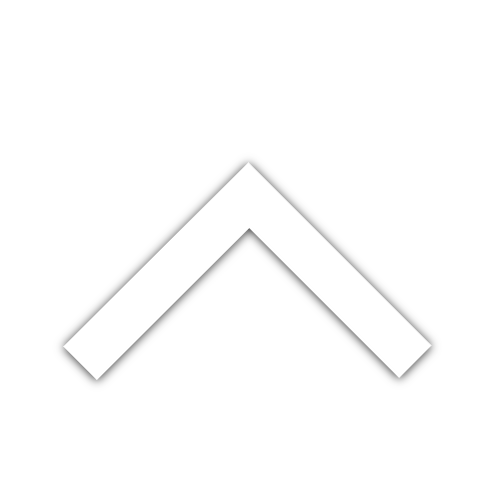
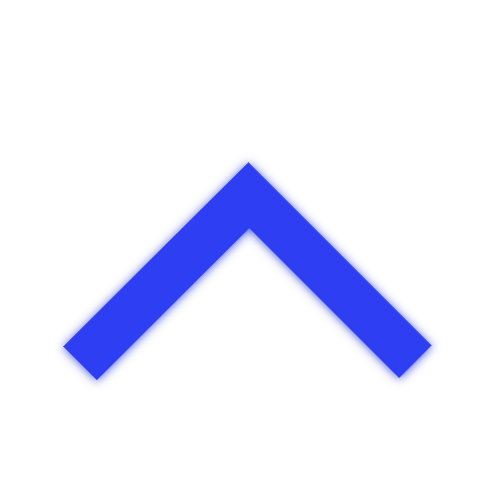
cambiado icono de flecha para subir en las paginas y agregado fav.ico a la web

Changed region(s): [[0.12, 0.3, 0.87, 0.78]]

diff --git a/resources/views/layouts/plantilla.blade.php b/resources/views/layouts/plantilla.blade.php
@@ -14,7 +14,8 @@
         <meta name="csrf-token" content="{{ csrf_token() }}">
         <title>Unidad medica humana</title>
         <!-- Favicon-->
-        <link rel="icon" type="image/x-icon" href="assets/favicon.ico" />
+        <!-- <link rel="icon" type="image/x-icon" href="assets/favicon.ico" /> -->
+        <link rel="shortcut icon" href="{{ asset('/favicon.ico') }}">
         <!-- Core theme CSS (includes Bootstrap sidebar)-->
         <!-- <link href="{{ asset('../resources/css/sidebar.css') }}" rel="stylesheet" /> -->
         <link href="{{ asset('css/sidebar.css') }}" rel="stylesheet" />

diff --git a/resources/views/dashboard.blade.php b/resources/views/dashboard.blade.php
@@ -132,7 +132,7 @@
     </div>
     <!-- Modal Signos-->
     <div class="modal fade" id="exampleModalCenter" tabindex="-1" role="dialog" aria-labelledby="exampleModalCenterTitle" aria-hidden="true" data-bs-backdrop="static" data-bs-keyboard="false">
-    <div class="modal-dialog modal-dialog-centered" role="document">
+    <div class="modal-dialog modal-dialog-centered modal-xl modal-dialog-scrollable" role="document">
         <div class="modal-content">
         <div class="modal-header">
             <h5 class="modal-title" id="exampleModalLongTitle">Registrar Consulta Subsecuente</h5>
